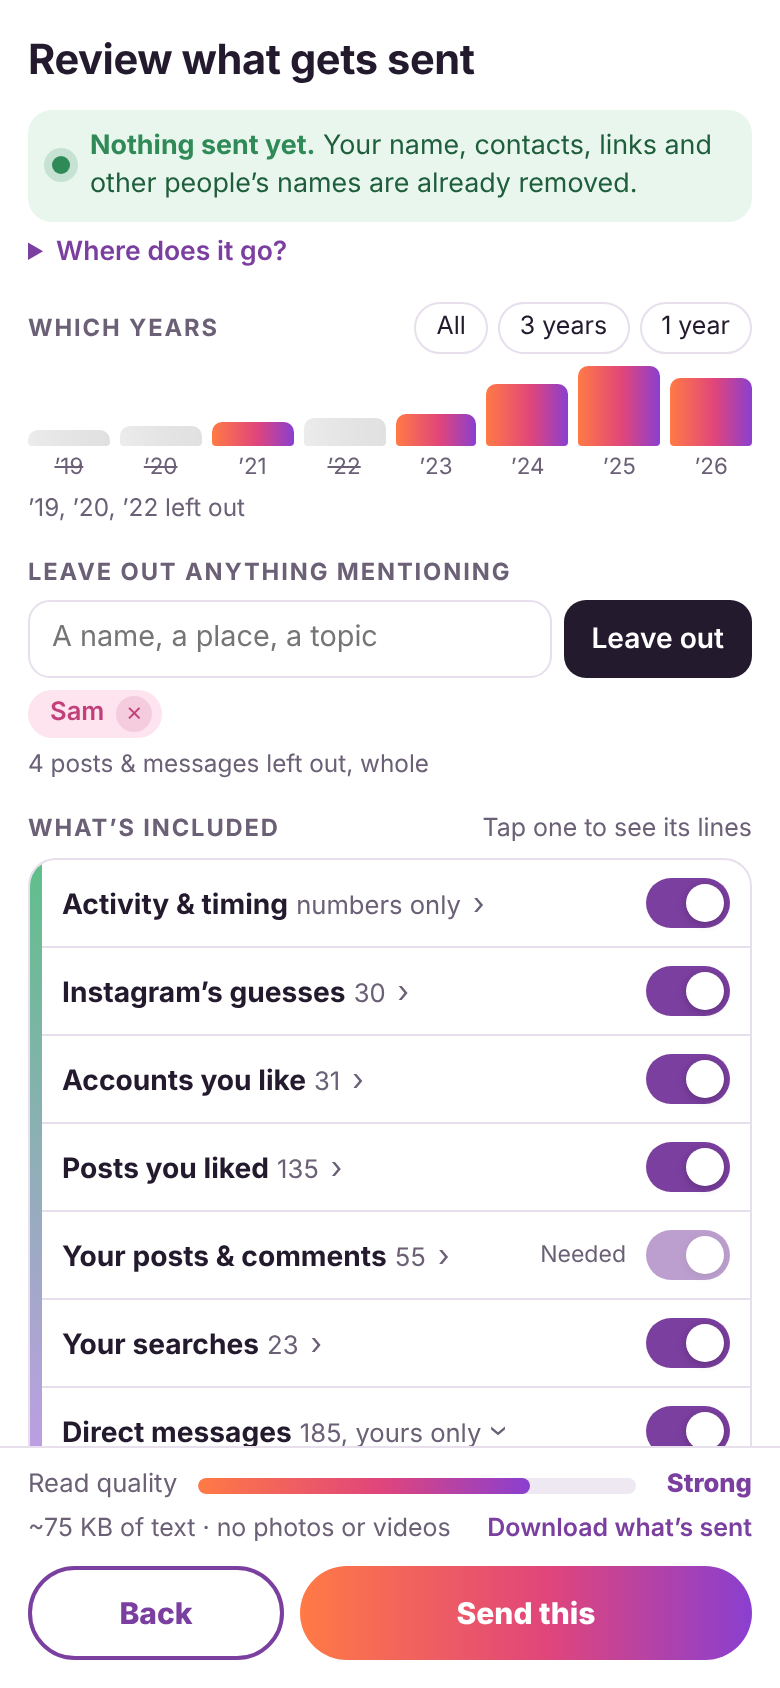
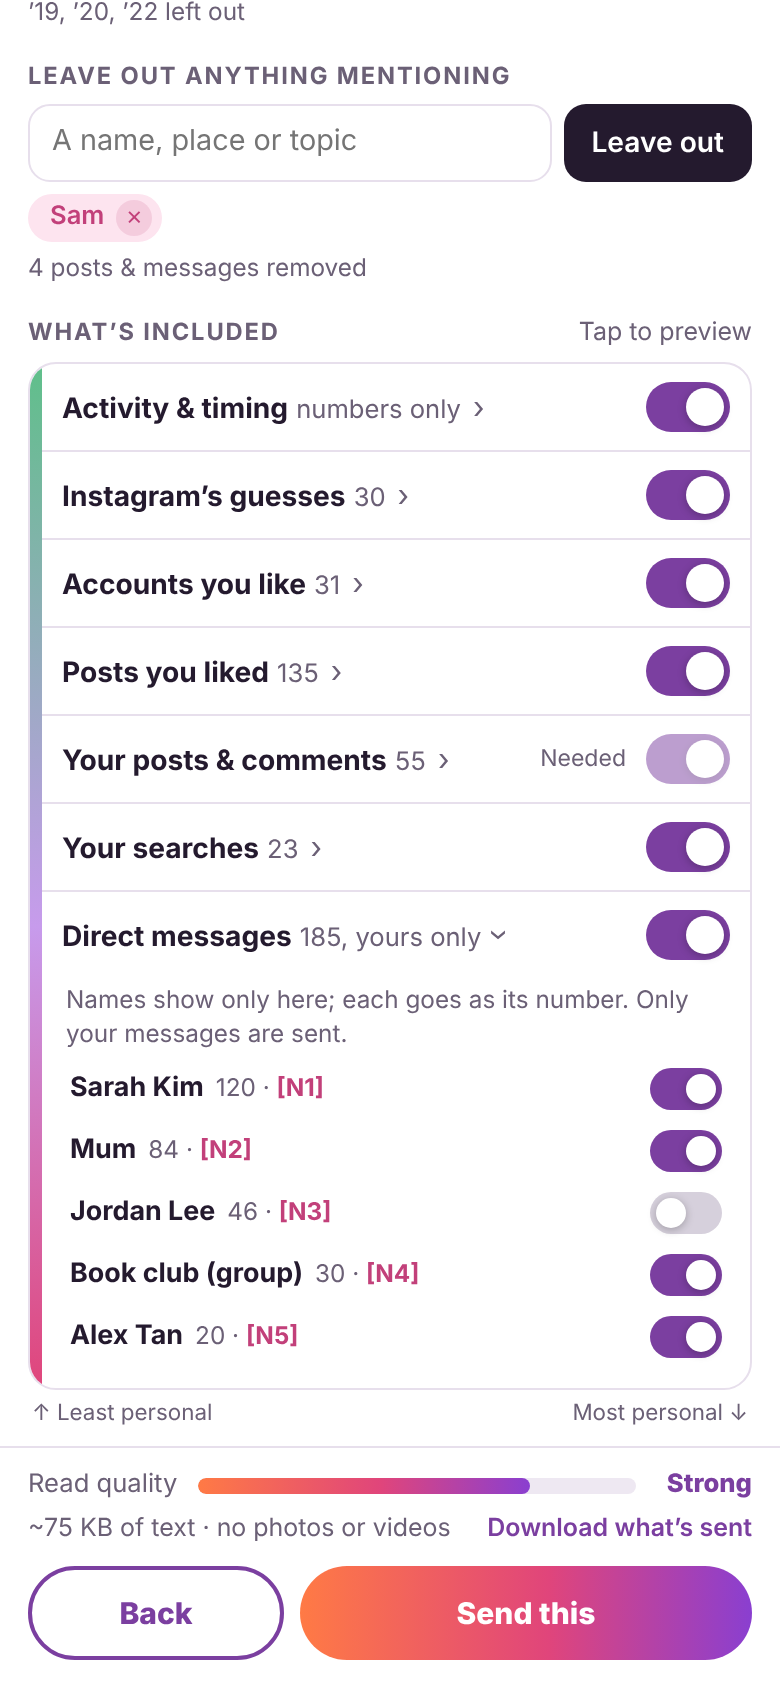
Review sheet mock-up: one line a chat, no year hint, the footer steps aside while typing, shorter words
Claude-Session: https://claude.ai/code/session_01JG1d877BBZBRM36WtZBvXb

diff --git a/marketing/site-mockups/review-sheet.html b/marketing/site-mockups/review-sheet.html
@@ -73,14 +73,15 @@ details.where ul { margin: 4px 0 0; padding-left: 18px; }
 .item.gone q { text-decoration: line-through; }
 .ph { color: var(--pink); font-weight: 700; }
 .chat { display: flex; align-items: center; gap: 10px; padding: 5px 2px; font-size: .84rem; }
-.chat .who2 { flex: 1; min-width: 0; }
-.chat .who2 b { display: block; font-weight: 650; }
-.chat .who2 small { color: var(--ink-soft); font-size: .76rem; }
+.chat .who2 { flex: 1; min-width: 0; white-space: nowrap; overflow: hidden; text-overflow: ellipsis; }
+.chat .who2 b { font-weight: 650; }
+.chat .who2 small { margin-left: 6px; color: var(--ink-soft); font-size: .76rem; }
 .chat .sw { width: 36px; height: 21px; }
 .chat .sw::after { width: 15px; height: 15px; left: 18px; }
 .chat .sw[aria-checked="false"]::after { left: 3px; }
 .ends { display: flex; justify-content: space-between; font-size: .7rem; color: var(--ink-soft); margin-top: 4px; padding: 0 2px; }
 /* Pinned at the bottom. */
+.sheet.typing .foot { display: none; }
 .foot { flex: none; border-top: 1.5px solid var(--line); padding: 10px 20px 14px; background: #fff; }
 .meter { display: flex; align-items: center; gap: 10px; font-size: .8rem; }
 .meter .lbl { color: var(--ink-soft); white-space: nowrap; }
@@ -106,26 +107,26 @@ details.where ul { margin: 4px 0 0; padding-left: 18px; }
 <div class="sheet" role="dialog" aria-labelledby="t">
   <div class="body">
     <h2 id="t">Review what gets sent</h2>
-    <div class="status"><span class="dot"></span><div><b>Nothing sent yet.</b> Your name, contacts, links and other people’s names are already removed.</div></div>
+    <div class="status"><span class="dot"></span><div><b>Nothing sent yet.</b> Names, contacts and links already removed.</div></div>
     <details class="where"><summary>Where does it go?</summary>
       <ul><li>Google Vertex AI (enterprise), encrypted. It never trains on it.</li><li>PsycheAI keeps no copy; your results come back here only.</li></ul></details>
 
     <div class="sec">
       <div class="sec-h"><h3>Which years</h3><div class="chips" id="range-chips">
-        <button class="chip" data-from="2019">All</button><button class="chip" data-from="2024">3 years</button><button class="chip" data-from="2026">1 year</button></div></div>
+        <button class="chip" data-from="2019">All</button><button class="chip" data-from="2024">3 yrs</button><button class="chip" data-from="2026">1 yr</button></div></div>
       <div class="years" id="years"></div>
       <div class="yr-note" id="yr-note"></div>
     </div>
 
     <div class="sec">
       <div class="sec-h"><h3>Leave out anything mentioning</h3></div>
-      <form class="kw" id="kw-form"><input id="kw-in" placeholder="A name, a place, a topic" aria-label="A word to leave out"><button>Leave out</button></form>
+      <form class="kw" id="kw-form"><input id="kw-in" placeholder="A name, place or topic" aria-label="A word to leave out"><button>Leave out</button></form>
       <div class="kwchips" id="kw-chips"></div>
       <div class="yr-note" id="kw-note"></div>
     </div>
 
     <div class="sec">
-      <div class="sec-h"><h3>What’s included</h3><small>Tap one to see its lines</small></div>
+      <div class="sec-h"><h3>What’s included</h3><small>Tap to preview</small></div>
       <div class="list" id="list"></div>
       <div class="ends"><span>↑ Least personal</span><span>Most personal ↓</span></div>
     </div>
@@ -173,24 +174,24 @@ function render() {
     const lines = t.items.map(([q, y], i) => { const key = t.id + ':' + i, gone = state.gone.has(key) || (y && state.off.has(y));
       return '<div class="item' + (gone ? ' gone' : '') + '"><q>' + q.replace(/\[(P|N)\d\]/g, m => '<span class="ph">' + m + '</span>') + '</q>' +
         (y ? '<span class="when">' + y + '</span>' : '') + '<button class="x" data-x="' + key + '" aria-label="' + (gone ? 'Put back' : 'Leave out') + '">' + (gone ? '↺' : '✕') + '</button></div>'; }).join('');
-    const chats = t.chats ? '<div class="note">Names show only on this device. Only your messages are sent, and the name goes as a number.</div>' + t.chats.map(([c, k, real]) =>
-      '<div class="chat"><span class="who2"><b>' + real + '</b><small>' + k + ' messages · sent as <span class="ph">' + c + '</span></small></span><button class="sw" role="switch" data-chat="' + c +
+    const chats = t.chats ? '<div class="note">Names show only here; each goes as its number. Only your messages are sent.</div>' + t.chats.map(([c, k, real]) =>
+      '<div class="chat"><span class="who2"><b>' + real + '</b><small>' + k + ' · <span class="ph">' + c + '</span></small></span><button class="sw" role="switch" data-chat="' + c +
       '" aria-checked="' + state.chats[c] + '" aria-label="Chat with ' + real + '"' + (on ? '' : ' disabled') + '></button></div>').join('') : '';
     const sub = t.c ? t.c : fmt(n);
     return '<div class="row' + (on ? '' : ' off') + (open ? ' open' : '') + '"><div class="row-main">' +
       '<button class="name" data-peek="' + t.id + '"><b>' + t.t + '</b><span>' + (t.chats && on ? fmt(n) + ', ' : '') + sub + '</span></button>' +
       (t.req ? '<span class="need">Needed</span>' : '') +
       '<button class="sw" role="switch" data-t="' + t.id + '" aria-checked="' + on + '"' + (t.req ? ' disabled' : '') + ' aria-label="' + t.t + '"></button></div>' +
-      '<div class="items">' + (t.chats ? chats : '<div class="note">Some of what is sent. ✕ leaves a line out.</div>' + lines) + '</div></div>';
+      '<div class="items">' + (t.chats ? chats : '<div class="note">✕ leaves a line out.</div>' + lines) + '</div></div>';
   }).join('');
   const tot = YEARS.map((y, i) => TYPES.reduce((a, t) => a + t.by[i], 0)), max = Math.max(...tot);
   $('#years').innerHTML = YEARS.map((y, i) => '<button class="yr' + (state.off.has(y) ? ' out' : '') + '" data-y="' + y + '" aria-pressed="' + !state.off.has(y) + '" aria-label="' + y + '">' +
     '<i style="height:' + Math.max(6, Math.round(40 * tot[i] / max)) + 'px"></i><small>’' + String(y).slice(2) + '</small></button>').join('');
   const fromOf = f => YEARS.every(y => state.off.has(y) === (y < f));
   document.querySelectorAll('#range-chips .chip').forEach(c => c.setAttribute('aria-pressed', fromOf(+c.dataset.from)));
-  $('#yr-note').textContent = state.off.size ? [...state.off].sort().map(y => '’' + String(y).slice(2)).join(', ') + ' left out' : 'Tap a year to leave it out';
+  $('#yr-note').textContent = state.off.size ? [...state.off].sort().map(y => '’' + String(y).slice(2)).join(', ') + ' left out' : '';
   $('#kw-chips').innerHTML = state.kws.map(k => '<span class="kwchip">' + k + '<button data-kw="' + k + '" aria-label="Remove ' + k + '">×</button></span>').join('');
-  $('#kw-note').textContent = state.kws.length ? kwHits() + ' posts & messages left out, whole' : 'The whole post or message goes, not just the word';
+  $('#kw-note').textContent = state.kws.length ? kwHits() + ' posts & messages removed' : 'Removes the whole post or message';
   let bytes = 6000, q = 0;
   TYPES.forEach(t => { if (!state.on[t.id]) return; const n = count(t), full = t.by.reduce((a, c) => a + c, 0); bytes += n * t.bytes; q += t.w * Math.min(1, n / full); });
   bytes = Math.max(0, bytes - kwHits() * 150); q = Math.round(q);
@@ -211,6 +212,8 @@ document.addEventListener('click', e => {
   else return;
   render();
 });
+$('#kw-in').addEventListener('focus', () => $('.sheet').classList.add('typing'));
+$('#kw-in').addEventListener('blur', () => $('.sheet').classList.remove('typing'));
 $('#kw-form').addEventListener('submit', e => { e.preventDefault(); const v = $('#kw-in').value.trim(); if (v && !state.kws.includes(v)) state.kws.push(v); $('#kw-in').value = ''; render(); });
 // ?state=edited: choices made (from 2024, "Sam" left out, chat [N3] off, a line removed, the messages opened).
 if (/state=edited/.test(location.search)) { state.off = new Set([2019, 2020, 2022]); state.kws = ['Sam']; state.chats['[N3]'] = false; state.open.add('dm'); state.gone.add('dm:0'); }
